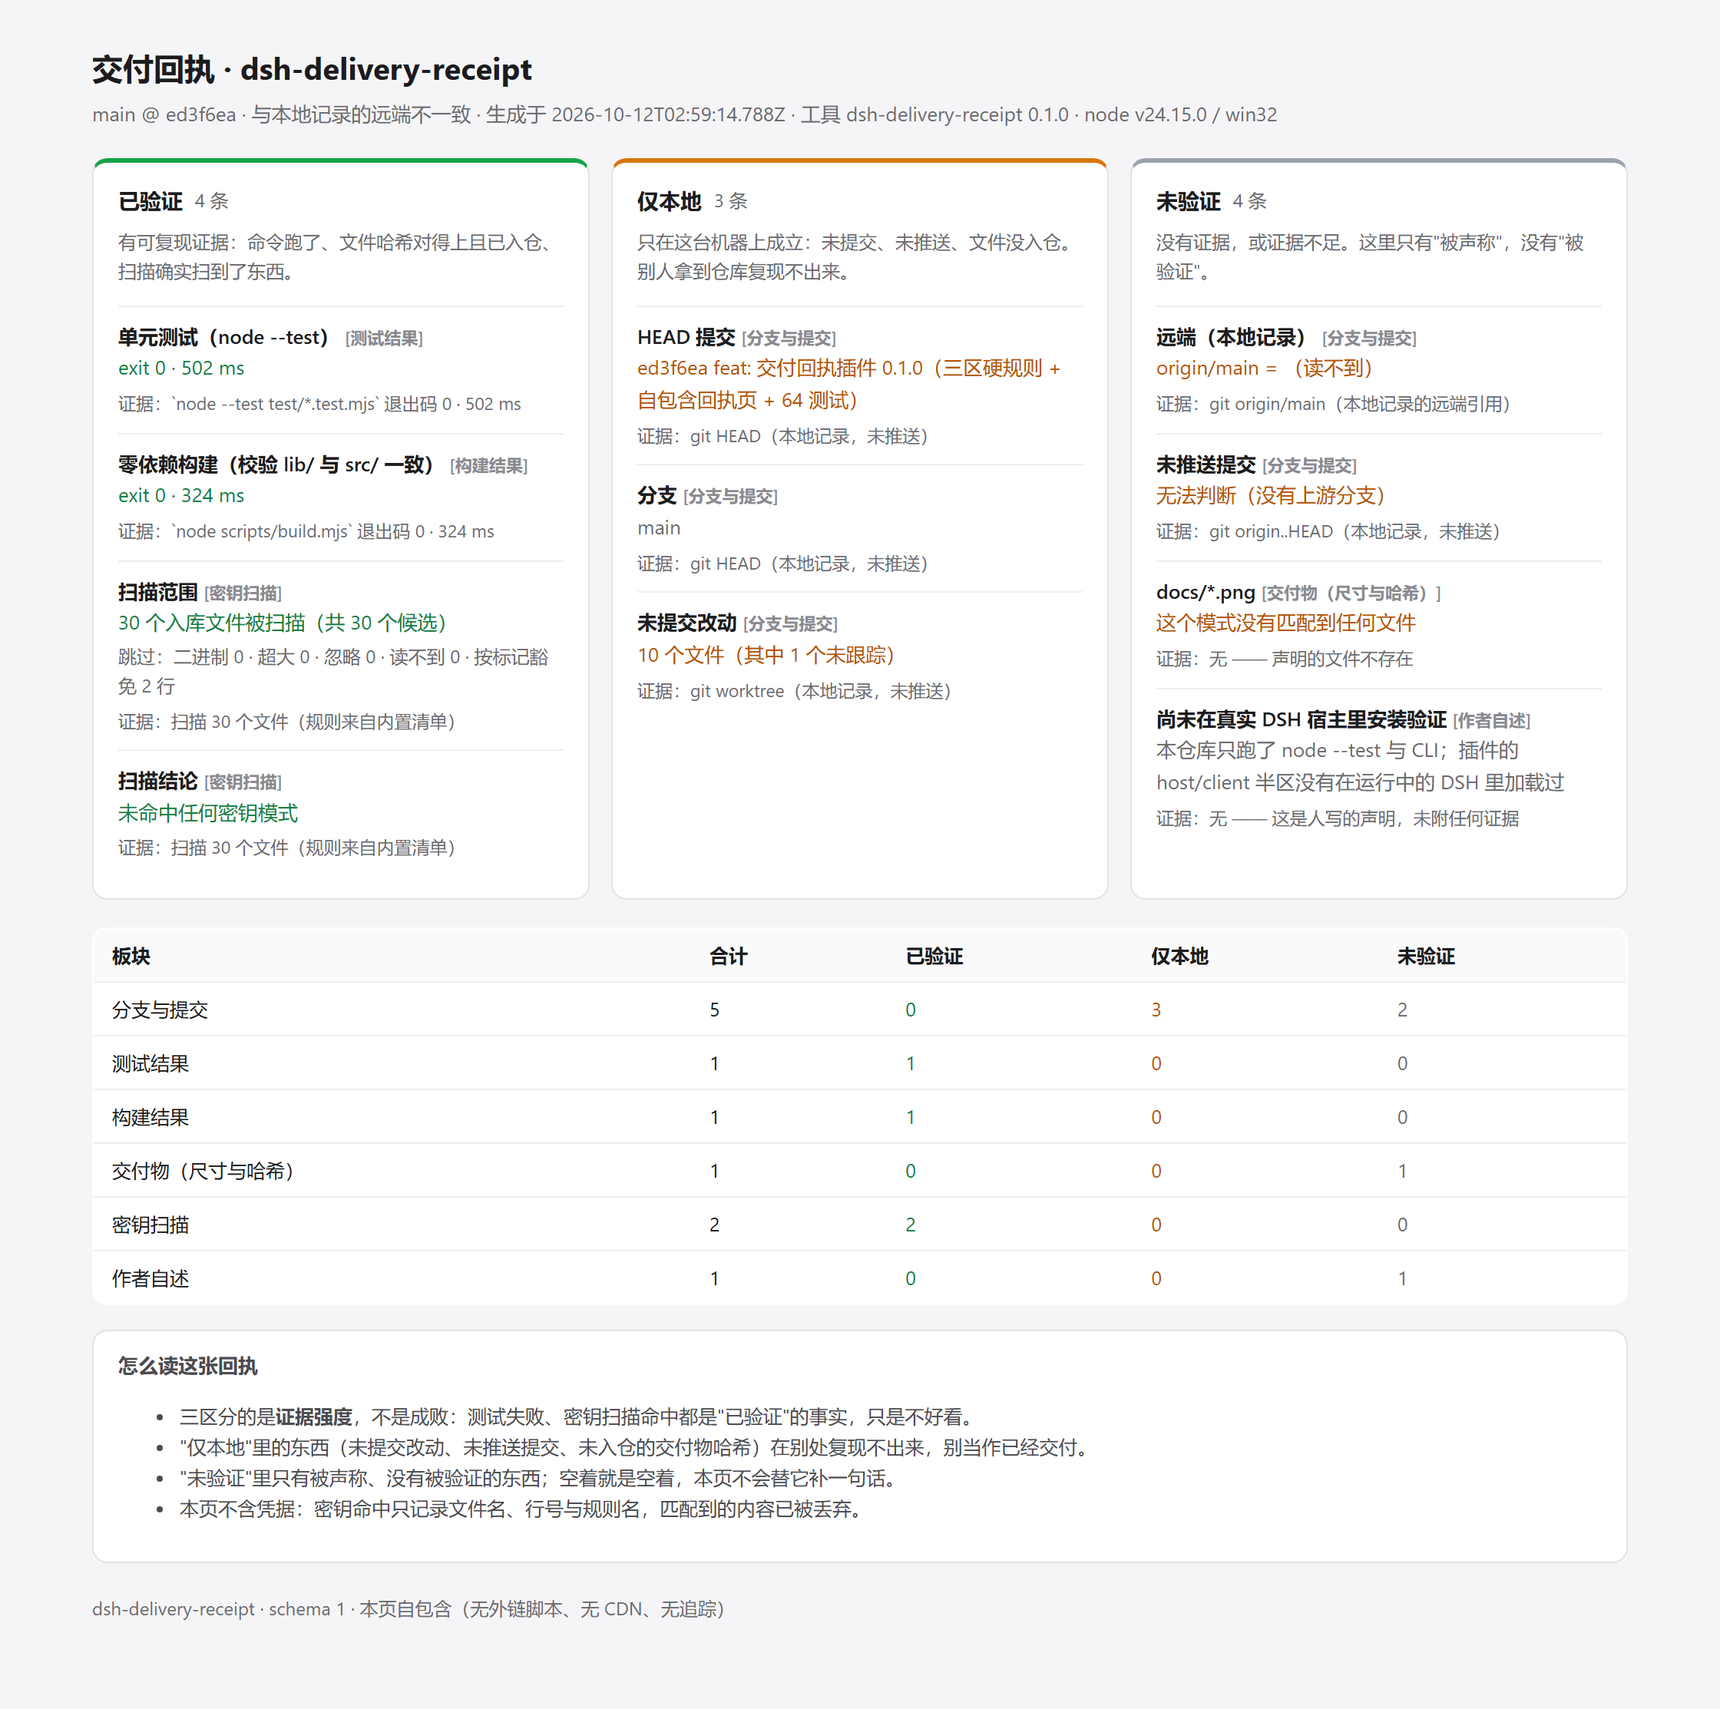
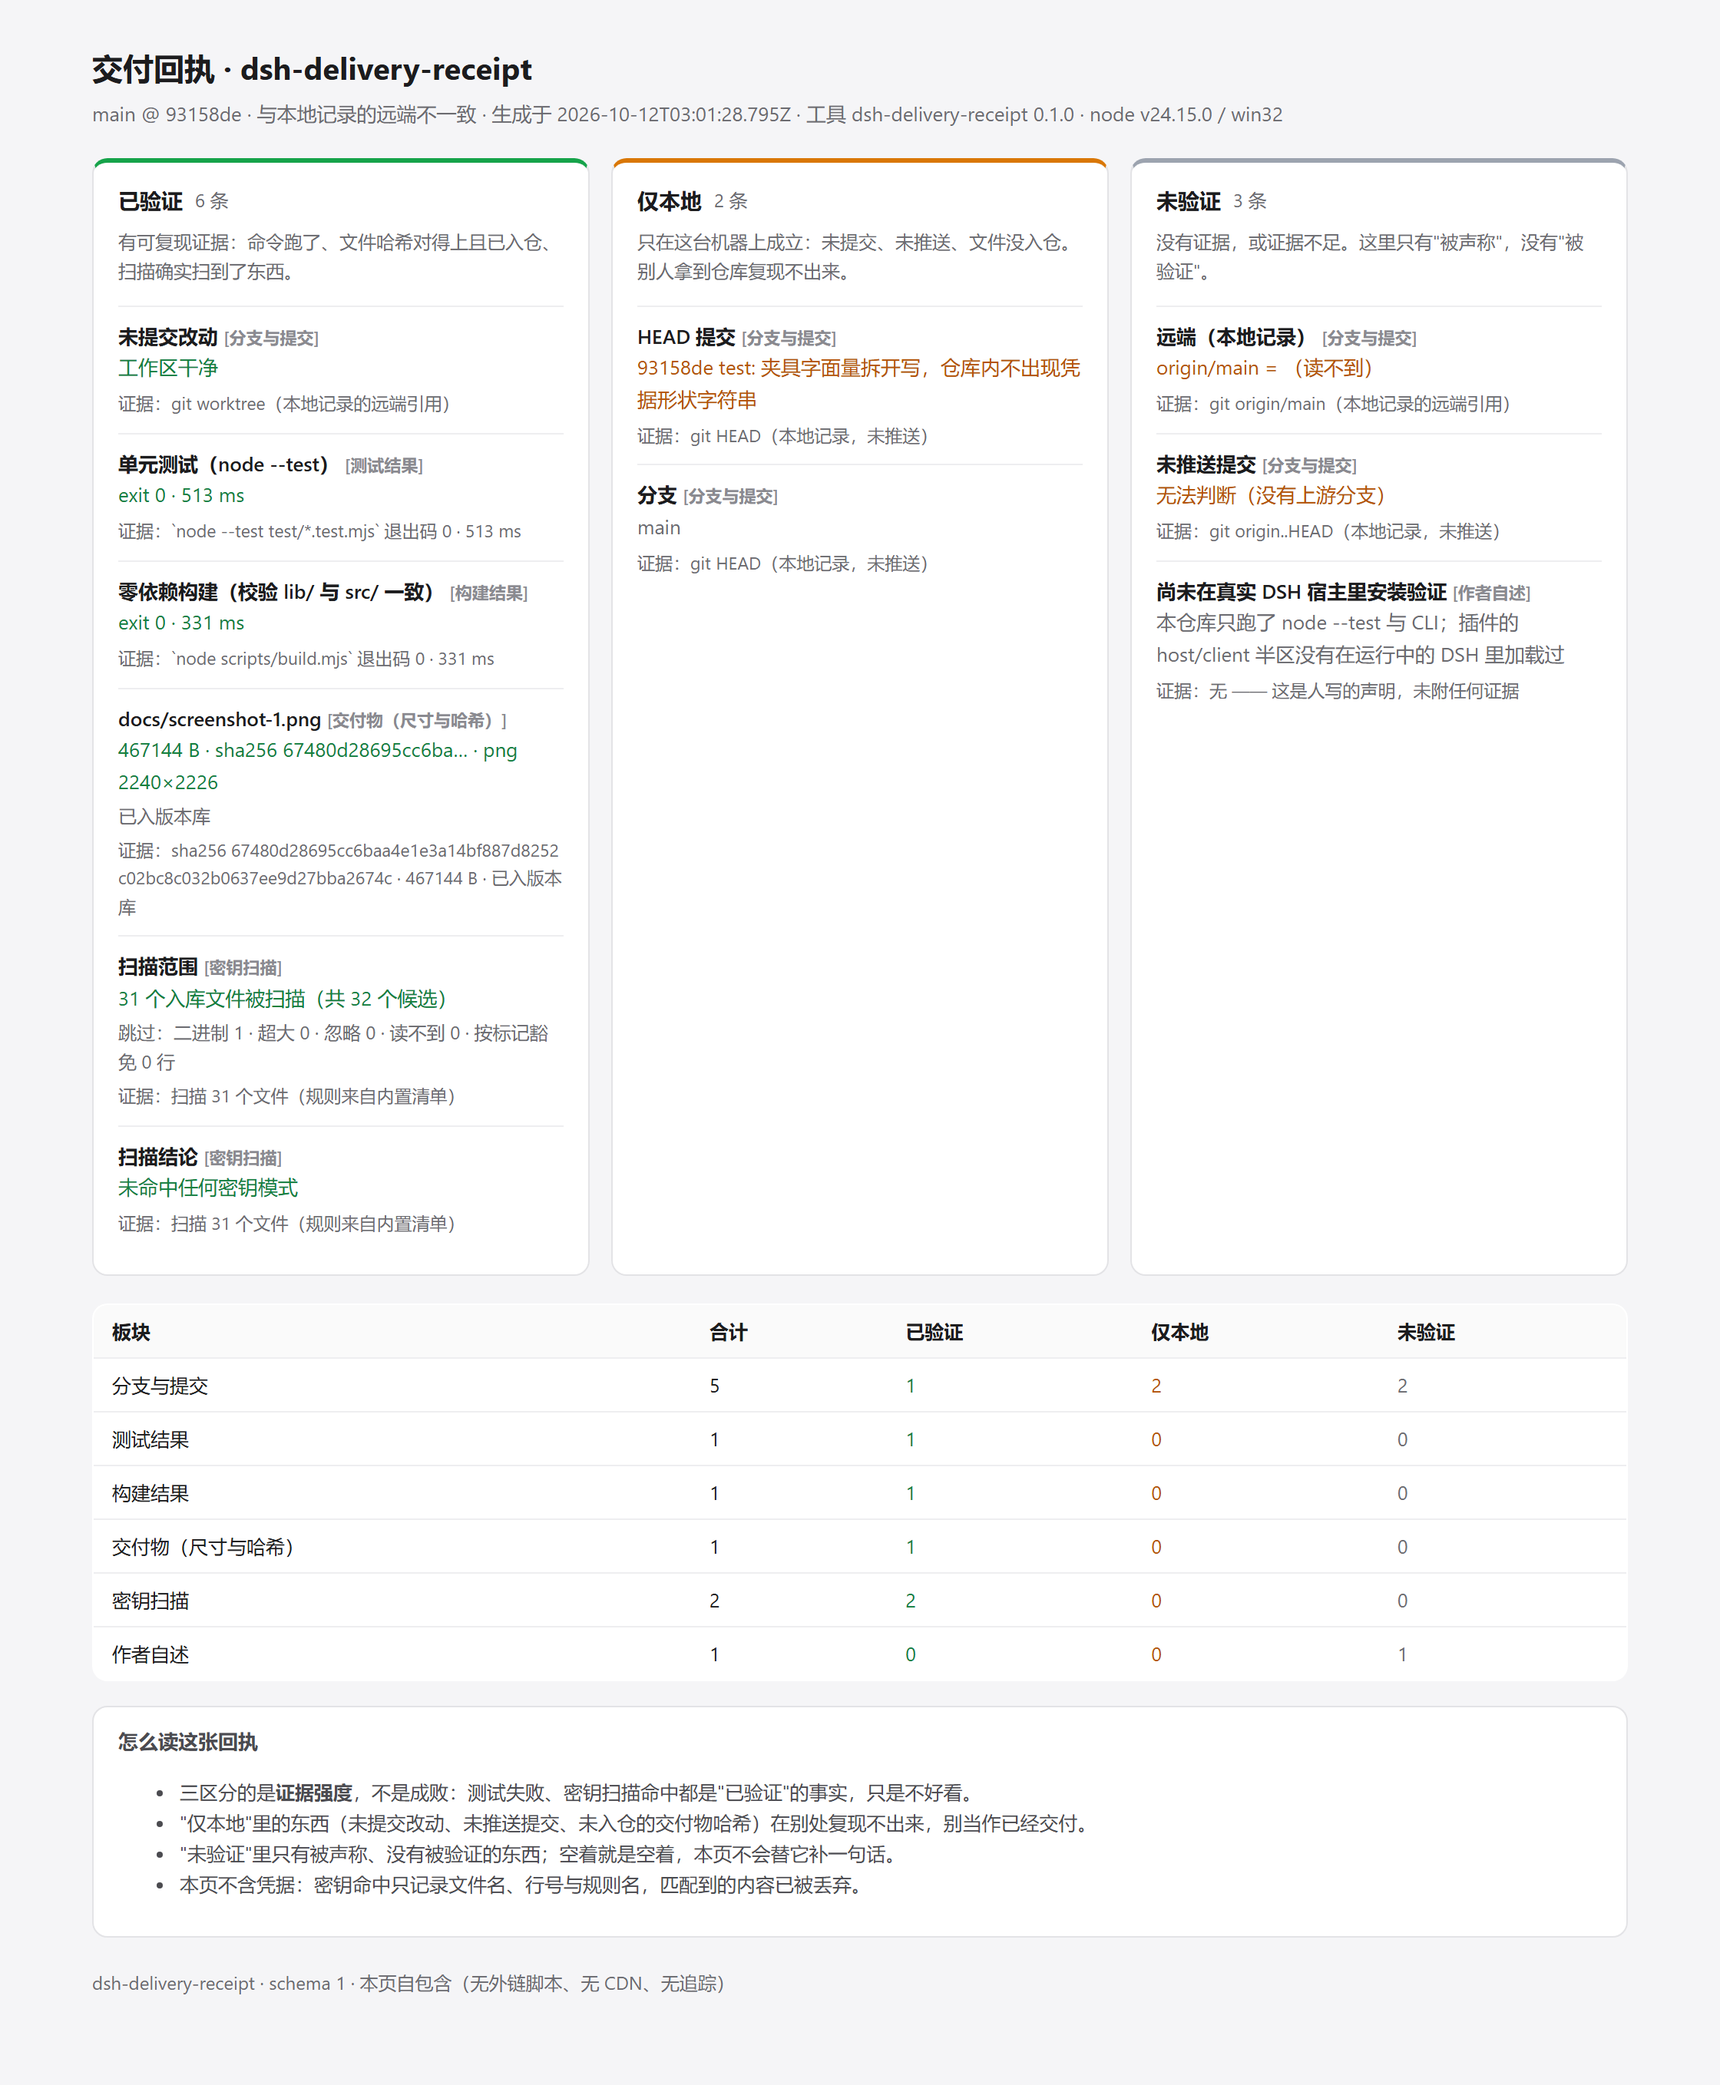
docs: 交付回执示例与回执页截图（哈希对应已入仓的截图）

diff --git a/docs/receipt-example.md b/docs/receipt-example.md
@@ -1,33 +1,33 @@
 # 交付回执 · dsh-delivery-receipt
 
-- 代码状态：main @ 5fee718（与本地记录的远端不一致）
-- 生成时间：2026-10-12T03:00:08.614Z
+- 代码状态：main @ 93158de（与本地记录的远端不一致）
+- 生成时间：2026-10-12T03:01:38.655Z
 - 工具：dsh-delivery-receipt 0.1.0（node v24.15.0 / win32）
-- 计数：已验证 6 · 仅本地 2 · 未验证 3
+- 计数：已验证 5 · 仅本地 3 · 未验证 3
 
-## 已验证（6）
+## 已验证（5）
 
-- **未提交改动**：工作区干净 `[分支与提交]`
-  - 证据：git worktree（本地记录的远端引用）
-- **单元测试（node --test）**：exit 0 · 513 ms `[测试结果]`
-  - 证据：`node --test test/*.test.mjs` 退出码 0 · 513 ms
-- **零依赖构建（校验 lib/ 与 src/ 一致）**：exit 0 · 347 ms `[构建结果]`
-  - 证据：`node scripts/build.mjs` 退出码 0 · 347 ms
-- **docs/screenshot-1.png**：467144 B · sha256 67480d28695cc6ba… · png 2240×2226 `[交付物（尺寸与哈希）]`
+- **单元测试（node --test）**：exit 0 · 512 ms `[测试结果]`
+  - 证据：`node --test test/*.test.mjs` 退出码 0 · 512 ms
+- **零依赖构建（校验 lib/ 与 src/ 一致）**：exit 0 · 293 ms `[构建结果]`
+  - 证据：`node scripts/build.mjs` 退出码 0 · 293 ms
+- **docs/screenshot-1.png**：479833 B · sha256 dc70d9790d3d7643… · png 2240×2716 `[交付物（尺寸与哈希）]`
   - 已入版本库
-  - 证据：sha256 67480d28695cc6baa4e1e3a14bf887d8252c02bc8c032b0637ee9d27bba2674c · 467144 B · 已入版本库
+  - 证据：sha256 dc70d9790d3d7643a170c588208cabd0389b0f374b31c593707280a4f3ceb971 · 479833 B · 已入版本库
 - **扫描范围**：31 个入库文件被扫描（共 32 个候选） `[密钥扫描]`
-  - 跳过：二进制 1 · 超大 0 · 忽略 0 · 读不到 0 · 按标记豁免 2 行
+  - 跳过：二进制 1 · 超大 0 · 忽略 0 · 读不到 0 · 按标记豁免 0 行
   - 证据：扫描 31 个文件（规则来自内置清单）
 - **扫描结论**：未命中任何密钥模式 `[密钥扫描]`
   - 证据：扫描 31 个文件（规则来自内置清单）
 
-## 仅本地（2）
+## 仅本地（3）
 
-- **HEAD 提交**：5fee718 feat: 交付回执插件 0.1.0（三区硬规则 / 自包含回执页 / 66 测试 / 密钥扫描含逐行豁免） `[分支与提交]`
+- **HEAD 提交**：93158de test: 夹具字面量拆开写，仓库内不出现凭据形状字符串 `[分支与提交]`
   - 证据：git HEAD（本地记录，未推送）
 - **分支**：main `[分支与提交]`
   - 证据：git HEAD（本地记录，未推送）
+- **未提交改动**：1 个文件 `[分支与提交]`
+  - 证据：git worktree（本地记录，未推送）
 
 ## 未验证（3）
 
